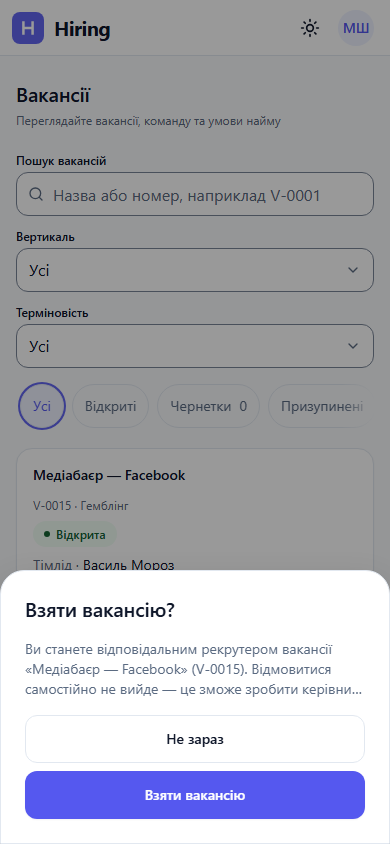
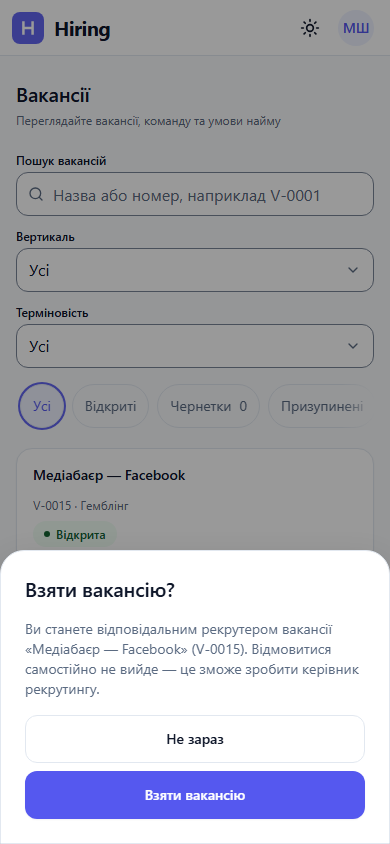
fix(vacancies): late claim shows the conflict message; full claim notice on mobile [VAC-03, D132, BUG-V3-1, BUG-V3-2]

Changed region(s): [[0.0, 0.6469, 1.0, 0.8318]]

diff --git a/tests/unit/vacancies/team-panel.test.ts b/tests/unit/vacancies/team-panel.test.ts
@@ -190,6 +190,38 @@ describe('claim [STORY-VAC-03-1, D130-2]', () => {
     expect(onLost).toHaveBeenCalledTimes(1);
   });
 
+  it('a 404 after the dialog opened means a rival claimed first: the conflict warning, never «not found» [D132, BUG-V3-1]', async () => {
+    stubApi({
+      [POST_CLAIM]: () => problem(404, 'NOT_FOUND'),
+      [GET_CARD]: () => problem(404, 'NOT_FOUND'),
+    });
+    const onLost = vi.fn();
+    mount(vacancy({ canSelfAssign: true }), onLost);
+    await press(t.claim);
+    await userEvent.click(await inDialog('alertdialog', t.claimDialog.confirm));
+    await gone();
+    expect(toast.warning).toHaveBeenCalledWith(
+      t.claimDialog.lost,
+      expect.objectContaining({ id: `claim:${ID}`, duration: 6000 }),
+    );
+    expect(toast.error).not.toHaveBeenCalled();
+    expect(onLost).toHaveBeenCalledTimes(1);
+  });
+
+  it('shows the whole irreversibility notice, unclamped, so a phone sheet hides nothing [BUG-V3-2]', async () => {
+    stubApi({});
+    mount(vacancy({ canSelfAssign: true }));
+    await press(t.claim);
+    const dialog = await screen.findByRole('alertdialog');
+    const body = dialog.querySelector(
+      '[data-slot="alert-dialog-description"]',
+    )!;
+    expect(body.textContent).toContain(
+      'Відмовитися самостійно не вийде — це зможе зробити керівник рекрутингу.',
+    );
+    expect(body.classList.contains('line-clamp-3')).toBe(false);
+  });
+
   it('keeps the dialog on a lost connection, and the retry sends the same claim again', async () => {
     let attempt = 0;
     const api = stubApi({
@@ -214,7 +246,6 @@ describe('claim [STORY-VAC-03-1, D130-2]', () => {
   });
 
   it.each([
-    [404, 'NOT_FOUND', t.toast.gone, 'error', true],
     [403, 'FORBIDDEN', t.toast.forbidden, 'error', true],
     [429, 'RATE_LIMITED', t.toast.rateLimited, 'warning', false],
   ] as const)(

diff --git a/tests/unit/vacancies/vacancy-team.test.ts b/tests/unit/vacancies/vacancy-team.test.ts
@@ -6,10 +6,17 @@ import type { VacancyDetail, VacancyPage } from '@/lib/schemas/vacancy';
 import { canClaimRow, grantsClaim } from '@/lib/vacancy-claim';
 import {
   attemptTeamWrite,
+  claimVacancyRequest,
   classifyTeamFailure,
   type TeamFailure,
 } from '@/lib/vacancy-team';
-import { ID, json, stubApi, vacancy } from '../../support/team-harness';
+import {
+  ID,
+  json,
+  problem,
+  stubApi,
+  vacancy,
+} from '../../support/team-harness';
 
 afterEach(() => vi.unstubAllGlobals());
 
@@ -34,6 +41,37 @@ describe('classifyTeamFailure [ADR-017 errata E1-E3]', () => {
     [new TypeError('Failed to fetch'), 'network'],
   ])('%o → %s', (error, expected) => {
     expect(classifyTeamFailure(error)).toBe(expected);
+  });
+});
+
+describe('claimVacancyRequest [D132]', () => {
+  it.each<[number, string, TeamFailure]>([
+    [404, 'NOT_FOUND', 'taken'],
+    [409, 'VACANCY_ALREADY_ASSIGNED', 'taken'],
+    [403, 'FORBIDDEN', 'forbidden'],
+    [429, 'RATE_LIMITED', 'rateLimited'],
+    [500, 'INTERNAL', 'failed'],
+  ])('%s %s is classified %s', async (status, code, expected) => {
+    stubApi({
+      [`POST /vacancies/${ID}/recruiters/claim`]: () => problem(status, code),
+    });
+    const error = await claimVacancyRequest(ID).then(
+      () => null,
+      (caught: unknown) => caught,
+    );
+    expect(classifyTeamFailure(error)).toBe(expected);
+  });
+
+  it('keeps a lost connection a lost connection', async () => {
+    vi.stubGlobal(
+      'fetch',
+      vi.fn(() => Promise.reject(new TypeError('offline'))),
+    );
+    const error = await claimVacancyRequest(ID).then(
+      () => null,
+      (caught: unknown) => caught,
+    );
+    expect(classifyTeamFailure(error)).toBe('network');
   });
 });
 

diff --git a/tests/e2e/vacancy-assignment.spec.ts b/tests/e2e/vacancy-assignment.spec.ts
@@ -118,7 +118,7 @@ test.describe('a Recruiter takes a free vacancy [STORY-VAC-03-1, D130-2]', () =>
       'race',
     ],
     [
-      'a claim after the other one committed (404, out of scope): the «not found» toast, the dialog closes and the row leaves the list',
+      'a claim after the other one committed (404, out of scope): the same conflict toast, the dialog closes and the row leaves the list [D132]',
       'late',
     ],
   ] as const)
@@ -161,11 +161,10 @@ test.describe('a Recruiter takes a free vacancy [STORY-VAC-03-1, D130-2]', () =>
       await rival.dispose();
       await button(dialog, tt.claimDialog.confirm).click();
 
-      if (outcome === 'race')
-        await expect(toastWith(page, tt.claimDialog.lost)).toContainText(
-          fill(tt.claimDialog.lostDescription, { number: fixture.number }),
-        );
-      else await expect(toastWith(page, tt.toast.gone)).toBeVisible();
+      await expect(toastWith(page, tt.claimDialog.lost)).toContainText(
+        fill(tt.claimDialog.lostDescription, { number: fixture.number }),
+      );
+      await expect(toastWith(page, tt.toast.gone)).toHaveCount(0);
       await expect(dialog).toHaveCount(0);
       await expect(row).toHaveCount(0);
       expect(

diff --git a/tests/unit/vacancies/recruiter-cell.test.ts b/tests/unit/vacancies/recruiter-cell.test.ts
@@ -207,6 +207,32 @@ describe('claim from a row', () => {
     );
   });
 
+  it('a 404 from the row dialog warns about the lost claim like a 409 and moves focus on [D132]', async () => {
+    const first = row({ title: 'Перша' });
+    const second = row({
+      id: crypto.randomUUID(),
+      title: 'Друга',
+      status: 'ON_HOLD',
+    });
+    stubApi({
+      [`POST /vacancies/${first.id}/recruiters/claim`]: () =>
+        problem(404, 'NOT_FOUND'),
+    });
+    list([first, second]);
+    await userEvent.click(claimRow(first));
+    await confirmClaim();
+    expect(toast.warning).toHaveBeenCalledWith(
+      t.claimDialog.lost,
+      expect.objectContaining({ id: `claim:${first.id}` }),
+    );
+    expect(toast.error).not.toHaveBeenCalled();
+    await waitFor(() =>
+      expect(document.activeElement).toBe(
+        within(table()).getByRole('link', { name: 'Друга' }),
+      ),
+    );
+  });
+
   it('keeps focus on the next row when the list drops the claimed row before the dialog closes', async () => {
     const first = row({ title: 'Перша' });
     const second = row({

diff --git a/lib/vacancy-team.ts b/lib/vacancy-team.ts
@@ -9,12 +9,20 @@ export const detailSchema = async () =>
   (await import('@/lib/schemas/vacancy')).vacancyDetailSchema;
 const base = (id: string) => `/vacancies/${encodeURIComponent(id)}`;
 
-export const claimVacancyRequest = (id: string) =>
-  apiRequest(`${base(id)}/recruiters/claim`, {
-    method: 'POST',
-    body: {},
-    schema: detailSchema,
-  });
+/** A claim is sent from an open dialog, so a 404 means a rival claimed first and the vacancy left the unassigned scope (D132, ADR-017 E3): the same conflict as the row lock's 409. */
+export const claimVacancyRequest = async (id: string) => {
+  try {
+    return await apiRequest(`${base(id)}/recruiters/claim`, {
+      method: 'POST',
+      body: {},
+      schema: detailSchema,
+    });
+  } catch (error) {
+    throw error instanceof ApiError && error.status === 404
+      ? new ApiError(409, 'VACANCY_ALREADY_ASSIGNED')
+      : error;
+  }
+};
 
 export const assignRecruitersRequest = (
   id: string,

diff --git a/components/vacancies/claim-vacancy-dialog.tsx b/components/vacancies/claim-vacancy-dialog.tsx
@@ -35,7 +35,6 @@ export default function ClaimVacancyDialog({
         title: vacancy.title,
         number: vacancy.number,
       })}
-      clampDescription
       confirmLabel={t('claimDialog.confirm')}
       cancelLabel={t('claimDialog.cancel')}
       pending={pending}

diff --git a/docs/bugs.md b/docs/bugs.md
@@ -4,27 +4,27 @@ Format: ID · severity · PRD/story · steps · expected · actual. Fixed items 
 
 ## Open
 
-| ID        | Severity  | PRD / story                                       | Steps                                                                                                                                                                                                                                                                                                                                                                                                                                         | Expected                                                                                                            | Actual                                                                                                                                                                                                                                                                                                                                                                                                                                                                                                                                         |
-| --------- | --------- | ------------------------------------------------- | --------------------------------------------------------------------------------------------------------------------------------------------------------------------------------------------------------------------------------------------------------------------------------------------------------------------------------------------------------------------------------------------------------------------------------------------- | ------------------------------------------------------------------------------------------------------------------- | ---------------------------------------------------------------------------------------------------------------------------------------------------------------------------------------------------------------------------------------------------------------------------------------------------------------------------------------------------------------------------------------------------------------------------------------------------------------------------------------------------------------------------------------------- |
-| BUG-V1-5  | Minor     | UI-06                                             | Change the vertical/status select or type in the search before the page has hydrated (slow device)                                                                                                                                                                                                                                                                                                                                            | The choice is kept                                                                                                  | Suspected, seen as an E2E flake: a `<select>` change fired right after load left the URL and the control unchanged (controlled value restored by hydration). E2E now waits for hydration (`tests/support/hydration.ts`); not reproduced by hand                                                                                                                                                                                                                                                                                                |
-| BUG-V1-6  | Info      | UI-06 (loading state)                             | Try to see the list skeleton                                                                                                                                                                                                                                                                                                                                                                                                                  | Skeleton shown for the first load                                                                                   | It is unreachable in practice: data is hydrated from RSC and `keepPreviousData` shows the dimmed previous list («Оновлюємо список…») on filter change. The gallery captures that state as «refreshing»                                                                                                                                                                                                                                                                                                                                         |
-| BUG-V1-7  | Info      | test stability                                    | First test of `profile.spec.ts` after `e2e-sessions` on a cold `next start` (full run)                                                                                                                                                                                                                                                                                                                                                        | Passes                                                                                                              | One run: `page.goto('/settings/audit')` exceeded 30 s once (cold route compile under load); passed on re-run                                                                                                                                                                                                                                                                                                                                                                                                                                   |
-| BUG-S3-3  | Info      | test stability                                    | Full `e2e-mobile` run: `positions.spec.ts` «Admin loses the 2FA level mid-session» (URL stayed on `/vacancies/positions?inactive=1` after the alert link) failed in two runs, passed alone and in the final full run; `vacancies-create` draft-save group failed 1 of 12 right after Newman, 15 reruns green                                                                                                                                  | Passes                                                                                                              | Not reproduced; cause unknown (not in this slice's code)                                                                                                                                                                                                                                                                                                                                                                                                                                                                                       |
-| BUG-S3-4  | Minor     | D98, UI a11y                                      | Desktop, 50 drafts: `focus()` the disabled «Зберегти чернетку», then hover it                                                                                                                                                                                                                                                                                                                                                                 | Tooltip with the reason appears                                                                                     | Codex retained focus-before-hover ordering in the production E2E; 10/10 focused repetitions and the later full cases passed. No tooltip source fix is claimed; the earlier intermittent observation remains open.                                                                                                                                                                                                                                                                                                                              |
-| BUG-S3-10 | Minor     | test stability (self-check «shared mutable data») | Full `test:e2e` (desktop and mobile run in parallel as the same author `recruiter2.gambling@demo`, plus other specs of that author): `vacancies-draft-close` «delete a cancelled draft…», «delete a draft from the list…» and `vacancies-draft-actions` «a refusal puts the row, the count and the focus back…» failed on the «Чернетки N» chip; the Admin `Дії: ` button count failed in «the Admin sees the menu on their own seeded draft» | Passes                                                                                                              | The chip is the author's whole live count (one query), so another worker creating or sweeping drafts of the same user moves it after any refetch (`before` 7 → 4, 4 → 5, 3 → 2); the Admin list gained a row between `visibleTitles` and the button count. Test fix, not product: assertions that follow a refetch compare the chip with the server count (`draftCountOffset`), optimistic steps keep `before - 1` (no refetch in between), the Admin row/button difference is polled. Unit `applyClosed` keeps the exact count steps          |
-| BUG-S3-11 | Info      | test stability                                    | Full `test:e2e`, desktop: `mfa.spec.ts` «validation chunk blocked · enrolment stops before the server creates a factor» failed once with `apiResponse.text: Response has been disposed` in `tests/support/lazy-chunks.ts`; 3/3 green alone                                                                                                                                                                                                    | Passes                                                                                                              | A chunk fetch still in flight when the test ends is disposed with the page and the route handler's rejection fails the test. `blockValidationChunks` now ignores a rejection once the page is closed and rethrows otherwise                                                                                                                                                                                                                                                                                                                    |
-| BUG-S3-12 | Major     | test isolation                                    | Full `test:e2e`: `vacancies-draft-actions` «a refusal puts the row…» failed while the publish stub's gate was still closed (the chip check timed out); `afterEach` then ran `unrouteAll({ behavior: 'ignoreErrors' })`                                                                                                                                                                                                                        | The stubbed publish never reaches the server                                                                        | The held request went to the real server 13 s later and published the draft: V-0745 stayed OPEN (the app role has no delete for an opened vacancy), and every Admin and HR list spec failed with an extra row (55 failures in that run). Fix: `removeStubs` in `tests/e2e/support/vacancy-draft-actions.ts` takes the browser context offline before it removes the routes, so a held request cannot reach the server; both specs use it as `afterEach`. The leftover rows were soft-deleted by hand in the local DB (V-0745, V-0777, V-0778). |
-| BUG-S3-13 | Minor     | test (S3.5 preview menu)                          | Full `test:e2e`, desktop 1440: `vacancies-draft-actions` «the Admin sees the menu on their own seeded draft…» expected as many `Дії:` buttons as rows                                                                                                                                                                                                                                                                                         | Menus only on own rows                                                                                              | Since S3.5 the selected own draft's preview has its own `⋯` named like the row's, so the page held rows + 1 buttons (stable, 3 of 3 full runs). Not a product bug: the count is now scoped to the results region                                                                                                                                                                                                                                                                                                                               |
-| BUG-S3-14 | Minor     | test stability                                    | One full `test:e2e` run, desktop: `vacancies-create-basics.spec.ts` «a 403 answer keeps the values and says so in a toast…» did not find the toast within 5 s; green in the next three full runs and in a focused run of the file on both projects                                                                                                                                                                                            | Passes                                                                                                              | Codex reproduced this once in the latest full run: trace confirms POST returned 403 and the toaster stayed empty after the refresh. Focused desktop repeats passed 3/3. Mechanism remains unknown; BUG-S3-14 stays open (no source fix).                                                                                                                                                                                                                                                                                                       |
-| BUG-S3-20 | Minor     | a11y (WCAG 4.1.2), D98                            | Desktop: open the card of an incomplete own draft, hover the disabled «Опублікувати» so its tooltip opens, run axe (`wcag2a/aa`)                                                                                                                                                                                                                                                                                                              | No violations                                                                                                       | `aria-tooltip-name` (serious): Radix renders `role="tooltip"` with the children as its name, and `decorative` (`components/ui/tooltip-content.tsx`) wraps them in `aria-hidden`, so the tooltip node has no accessible text. The text itself is read through `aria-describedby`; only the empty node is flagged. QA scans the state before the hover and captures with the tooltip open (`scan: false`). Fix idea: pass `aria-label={content}` to `TooltipPrimitive.Content` when `decorative`                                                 |
-| BUG-V3-1  | Minor     | STORY-VAC-03-1 §3.3, D130-2, ADR-017 E3           | Recruiter A opens the «Взяти» confirm (list row, card or preview); Recruiter B claims the same vacancy and commits; A presses «Взяти вакансію»                                                                                                                                                                                                                                                                                                | Warning toast «Вакансію вже взяв інший рекрутер · V-… · Її більше немає у вашому списку.» (wireframe §3.3)          | A's POST answers 404 (the vacancy left A's `UNASSIGNED_OPEN` scope), so the generic «Вакансію не знайдено або доступ обмежено» shows. The conflict toast appears only when both POSTs meet at the row lock (409 `VACANCY_ALREADY_ASSIGNED`). Row and dialog behave correctly in both cases. `vacancy-assignment.spec.ts` pins both outcomes. Decision for the owner: keep (E3 gives no existence hint) and amend the wireframe, or show the conflict toast for a 404 after the claim dialog opened                                             |
-| BUG-V3-2  | Minor     | STORY-VAC-03-1 §3.3 (copy), a11y                  | 390 px, Recruiter: open «Взяти вакансію» from the list card or the card                                                                                                                                                                                                                                                                                                                                                                       | The sheet shows the whole body, including «Відмовитися самостійно не вийде — це зможе зробити керівник рекрутингу.» | `ConfirmDialog` `clampDescription` cuts the body after 3 lines («…це зможе зробити керівни…»), so the irreversibility notice that justifies the confirm is partly hidden. Evidence: `screenshots/phase-2/49-recruiter-vacancy-team-claim-list-mobile-light.png`. Desktop shows the full text                                                                                                                                                                                                                                                   |
-| BUG-V3-3  | Info (UX) | vacancy-card wireframe V3 §2 (mobile header)      | 390 px, Team Lead on an own open vacancy: look at the header, press `[⋯]`                                                                                                                                                                                                                                                                                                                                                                     | Full-width status row, then `[⋯]` opening a bottom action sheet (items h 48)                                        | `[⋯]` sits alone on a line under the status button, left-aligned, and opens a small dropdown with one item at the left edge. Evidence: `50-team-lead-vacancy-status-menu-mobile-light.png`. For `ux-ui-designer` review before the owner sees the gallery                                                                                                                                                                                                                                                                                      |
+| ID        | Severity  | PRD / story                                       | Steps                                                                                                                                                                                                                                                                                                                                                                                                                                         | Expected                                                                     | Actual                                                                                                                                                                                                                                                                                                                                                                                                                                                                                                                                         |
+| --------- | --------- | ------------------------------------------------- | --------------------------------------------------------------------------------------------------------------------------------------------------------------------------------------------------------------------------------------------------------------------------------------------------------------------------------------------------------------------------------------------------------------------------------------------- | ---------------------------------------------------------------------------- | ---------------------------------------------------------------------------------------------------------------------------------------------------------------------------------------------------------------------------------------------------------------------------------------------------------------------------------------------------------------------------------------------------------------------------------------------------------------------------------------------------------------------------------------------- |
+| BUG-V1-5  | Minor     | UI-06                                             | Change the vertical/status select or type in the search before the page has hydrated (slow device)                                                                                                                                                                                                                                                                                                                                            | The choice is kept                                                           | Suspected, seen as an E2E flake: a `<select>` change fired right after load left the URL and the control unchanged (controlled value restored by hydration). E2E now waits for hydration (`tests/support/hydration.ts`); not reproduced by hand                                                                                                                                                                                                                                                                                                |
+| BUG-V1-6  | Info      | UI-06 (loading state)                             | Try to see the list skeleton                                                                                                                                                                                                                                                                                                                                                                                                                  | Skeleton shown for the first load                                            | It is unreachable in practice: data is hydrated from RSC and `keepPreviousData` shows the dimmed previous list («Оновлюємо список…») on filter change. The gallery captures that state as «refreshing»                                                                                                                                                                                                                                                                                                                                         |
+| BUG-V1-7  | Info      | test stability                                    | First test of `profile.spec.ts` after `e2e-sessions` on a cold `next start` (full run)                                                                                                                                                                                                                                                                                                                                                        | Passes                                                                       | One run: `page.goto('/settings/audit')` exceeded 30 s once (cold route compile under load); passed on re-run                                                                                                                                                                                                                                                                                                                                                                                                                                   |
+| BUG-S3-3  | Info      | test stability                                    | Full `e2e-mobile` run: `positions.spec.ts` «Admin loses the 2FA level mid-session» (URL stayed on `/vacancies/positions?inactive=1` after the alert link) failed in two runs, passed alone and in the final full run; `vacancies-create` draft-save group failed 1 of 12 right after Newman, 15 reruns green                                                                                                                                  | Passes                                                                       | Not reproduced; cause unknown (not in this slice's code)                                                                                                                                                                                                                                                                                                                                                                                                                                                                                       |
+| BUG-S3-4  | Minor     | D98, UI a11y                                      | Desktop, 50 drafts: `focus()` the disabled «Зберегти чернетку», then hover it                                                                                                                                                                                                                                                                                                                                                                 | Tooltip with the reason appears                                              | Codex retained focus-before-hover ordering in the production E2E; 10/10 focused repetitions and the later full cases passed. No tooltip source fix is claimed; the earlier intermittent observation remains open.                                                                                                                                                                                                                                                                                                                              |
+| BUG-S3-10 | Minor     | test stability (self-check «shared mutable data») | Full `test:e2e` (desktop and mobile run in parallel as the same author `recruiter2.gambling@demo`, plus other specs of that author): `vacancies-draft-close` «delete a cancelled draft…», «delete a draft from the list…» and `vacancies-draft-actions` «a refusal puts the row, the count and the focus back…» failed on the «Чернетки N» chip; the Admin `Дії: ` button count failed in «the Admin sees the menu on their own seeded draft» | Passes                                                                       | The chip is the author's whole live count (one query), so another worker creating or sweeping drafts of the same user moves it after any refetch (`before` 7 → 4, 4 → 5, 3 → 2); the Admin list gained a row between `visibleTitles` and the button count. Test fix, not product: assertions that follow a refetch compare the chip with the server count (`draftCountOffset`), optimistic steps keep `before - 1` (no refetch in between), the Admin row/button difference is polled. Unit `applyClosed` keeps the exact count steps          |
+| BUG-S3-11 | Info      | test stability                                    | Full `test:e2e`, desktop: `mfa.spec.ts` «validation chunk blocked · enrolment stops before the server creates a factor» failed once with `apiResponse.text: Response has been disposed` in `tests/support/lazy-chunks.ts`; 3/3 green alone                                                                                                                                                                                                    | Passes                                                                       | A chunk fetch still in flight when the test ends is disposed with the page and the route handler's rejection fails the test. `blockValidationChunks` now ignores a rejection once the page is closed and rethrows otherwise                                                                                                                                                                                                                                                                                                                    |
+| BUG-S3-12 | Major     | test isolation                                    | Full `test:e2e`: `vacancies-draft-actions` «a refusal puts the row…» failed while the publish stub's gate was still closed (the chip check timed out); `afterEach` then ran `unrouteAll({ behavior: 'ignoreErrors' })`                                                                                                                                                                                                                        | The stubbed publish never reaches the server                                 | The held request went to the real server 13 s later and published the draft: V-0745 stayed OPEN (the app role has no delete for an opened vacancy), and every Admin and HR list spec failed with an extra row (55 failures in that run). Fix: `removeStubs` in `tests/e2e/support/vacancy-draft-actions.ts` takes the browser context offline before it removes the routes, so a held request cannot reach the server; both specs use it as `afterEach`. The leftover rows were soft-deleted by hand in the local DB (V-0745, V-0777, V-0778). |
+| BUG-S3-13 | Minor     | test (S3.5 preview menu)                          | Full `test:e2e`, desktop 1440: `vacancies-draft-actions` «the Admin sees the menu on their own seeded draft…» expected as many `Дії:` buttons as rows                                                                                                                                                                                                                                                                                         | Menus only on own rows                                                       | Since S3.5 the selected own draft's preview has its own `⋯` named like the row's, so the page held rows + 1 buttons (stable, 3 of 3 full runs). Not a product bug: the count is now scoped to the results region                                                                                                                                                                                                                                                                                                                               |
+| BUG-S3-14 | Minor     | test stability                                    | One full `test:e2e` run, desktop: `vacancies-create-basics.spec.ts` «a 403 answer keeps the values and says so in a toast…» did not find the toast within 5 s; green in the next three full runs and in a focused run of the file on both projects                                                                                                                                                                                            | Passes                                                                       | Codex reproduced this once in the latest full run: trace confirms POST returned 403 and the toaster stayed empty after the refresh. Focused desktop repeats passed 3/3. Mechanism remains unknown; BUG-S3-14 stays open (no source fix).                                                                                                                                                                                                                                                                                                       |
+| BUG-S3-20 | Minor     | a11y (WCAG 4.1.2), D98                            | Desktop: open the card of an incomplete own draft, hover the disabled «Опублікувати» so its tooltip opens, run axe (`wcag2a/aa`)                                                                                                                                                                                                                                                                                                              | No violations                                                                | `aria-tooltip-name` (serious): Radix renders `role="tooltip"` with the children as its name, and `decorative` (`components/ui/tooltip-content.tsx`) wraps them in `aria-hidden`, so the tooltip node has no accessible text. The text itself is read through `aria-describedby`; only the empty node is flagged. QA scans the state before the hover and captures with the tooltip open (`scan: false`). Fix idea: pass `aria-label={content}` to `TooltipPrimitive.Content` when `decorative`                                                 |
+| BUG-V3-3  | Info (UX) | vacancy-card wireframe V3 §2 (mobile header)      | 390 px, Team Lead on an own open vacancy: look at the header, press `[⋯]`                                                                                                                                                                                                                                                                                                                                                                     | Full-width status row, then `[⋯]` opening a bottom action sheet (items h 48) | `[⋯]` sits alone on a line under the status button, left-aligned, and opens a small dropdown with one item at the left edge. Evidence: `50-team-lead-vacancy-status-menu-mobile-light.png`. For `ux-ui-designer` review before the owner sees the gallery                                                                                                                                                                                                                                                                                      |
 
 ## Fixed and verified (E2E 337 passed; gallery PNGs checked on 1440 and 390 widths)
 
 | ID        | Fix                                                                                                                                                                                                                                                                                                                                                                                                                                                                                                                                                                                                                                                                                                                                                           |
 | --------- | ------------------------------------------------------------------------------------------------------------------------------------------------------------------------------------------------------------------------------------------------------------------------------------------------------------------------------------------------------------------------------------------------------------------------------------------------------------------------------------------------------------------------------------------------------------------------------------------------------------------------------------------------------------------------------------------------------------------------------------------------------------- |
+| BUG-V3-1  | D132: `claimVacancyRequest` maps a 404 of the claim POST to the 409 `VACANCY_ALREADY_ASSIGNED` conflict, so the open claim dialog shows the «Вакансію вже взяв інший рекрутер» warning toast and keeps the lost-claim navigation and focus. Other 404s stay generic. Unit: `vacancy-team`, `team-panel`, `recruiter-cell`; E2E `vacancy-assignment` (real two-recruiter case)                                                                                                                                                                                                                                                                                                                                                                                 |
+| BUG-V3-2  | The claim dialog no longer clamps its description (`ClaimVacancyDialog` drops `clampDescription`), so the irreversibility notice shows in full on 390 px; the body scrolls inside the dialog if a long title needs it. Other `ConfirmDialog` consumers keep their clamp. Unit: `team-panel`                                                                                                                                                                                                                                                                                                                                                                                                                                                                   |
 | BUG-S3-18 | Value changes dismiss the stale submit-error count in create/edit forms without clearing field errors; real React Hook Form regression covers picker `setValue`, and gallery assertions cover the filled form.                                                                                                                                                                                                                                                                                                                                                                                                                                                                                                                                                |
 | BUG-S3-19 | Refused-open-work snapshots sort roles, sessions, events and audit rows by stable primary keys. The test no longer mistakes an arbitrary role-row order for a mutation; final full Vitest 4,163/4,163 passed.                                                                                                                                                                                                                                                                                                                                                                                                                                                                                                                                                 |
 | BUG-S3-9  | After an uncertain cancel, reconciliation is allowed only for the same normalized reason. Different uncertain bodies make the fingerprint ambiguous; retrying either body retains the conflict. Hook regressions cover changed reason and two lost answers.                                                                                                                                                                                                                                                                                                                                                                                                                                                                                                   |
